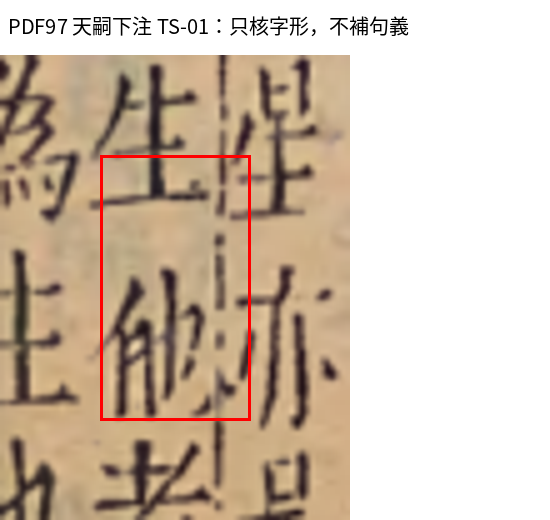
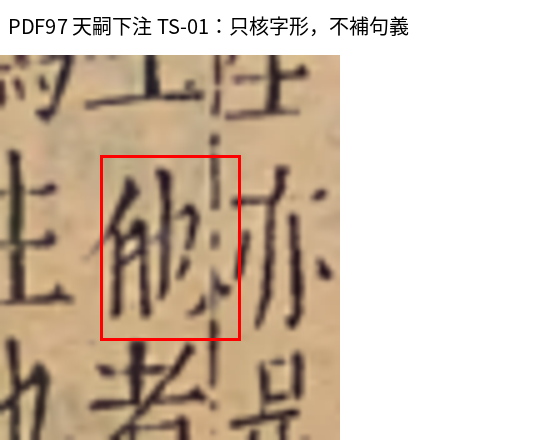
收窄天嗣下注待核字框並保存可重建腳本

diff --git a/tools/prepare_gangmu97_note_review.py b/tools/prepare_gangmu97_note_review.py
@@ -1,0 +1,13 @@
+"""執行：重建97頁天嗣下注兩個待核字位的紅框與證據；不改卡。"""
+from review_helpers import *
+def main():
+ base=PIC/'綱目97天嗣下注';base.mkdir(exist_ok=True);rows=[]
+ for ident,box,a,b in [('TS-01',(27,865,55,902),'彼','他'),('TS-02',(0,704,24,746),'復','彼')]:
+  dest=base/(ident+'.png');framed_image('/workspace/review/ocr/綱目-97-原圖0.png',box,dest,'PDF97 天嗣下注 '+ident+'：只核字形，不補句義',scale=5,margin=20)
+  rows.append({'編號':ident,'原圖':str(dest.relative_to(ROOT)),'原圖框位':list(box),'候選':[a,b],'狀態':'待看原圖／無法判斷','問題':f'請看紅框內的字，是「{a}」還是「{b}」？'})
+ save('綱目97天嗣下注待核.json',{'日期':'2026-11-19','PDF實際頁碼':97,'來源類型':'人工校讀','限制':'尚未形成可靠完整引文，不建立卡片；他書語句不代替本圖字形。','明細':rows})
+ lines=['# 綱目97頁天嗣下注待核','','總數2個字位疑點，均未定字，未建卡；OCR只作候選，不直接填文。']
+ for r in rows:lines+=['','## '+r['編號'],'',f'![原圖](../{r["原圖"].removeprefix("docs/")})','',r['問題']]
+ lines+=['','不補出整句取法；此段目前仍未可靠校清，不能列為提煉完成。']
+ (D/'綱目97天嗣下注待核.md').write_text('\n'.join(lines)+'\n')
+if __name__=='__main__':main()

diff --git a/docs/狀態.md b/docs/狀態.md
@@ -4,7 +4,7 @@
 階段1.5未驗收，未進階段2；使用者暫緩裁決，繼續可獨立核清的圖頁；不套用待裁決修改，不改既有卡片。
 統計日期2026-11-19：knowledge/每個Markdown檔計一張，本機與遠端共19,780張；綱目5,216張。河洛來源61張，檔名含河洛64個，差3張是其他書的同名篇題。
 帳本30份，27份所列正文整理完成、3份進行中；這不表示圖像核對已完成。
-復工位置：101頁兩段圖注新增2卡並推送04b1e742；97頁天嗣下注新定位2個疑字，未建卡。已產三本書43個圖頁位置的待校分界。下一個第一動作：核97頁天嗣下注兩處與玉堂首列；看不清保留，再按逐頁分界續核98頁其他左旁。
+復工位置：101頁兩段圖注新增2卡並推送04b1e742；97頁天嗣下注新定位2個疑字，未建卡。已產三本書43個圖頁位置的待校分界。下一個第一動作：按檢查/階段1.5待校與待裁決分界.md續核98頁其他左旁；97頁兩字與玉堂首列維持待核，不用句義代填。
 綱目73–96頁24組五題120筆、擎遊44對、催官貴元28筆抽查已出表；不是全部字值通過。
 命海16頁27題與三處淂字部件圖、綱目98頁左旁收到T21三筆回覆：婁水、會為使用者讀值，簊金仍為候選；100頁伏尸／闌干整欄待裁決。先前32／36為舊核對紀錄，本輪不視為驗收結果。
 

diff --git a/docs/檢查/綱目97天嗣下注待核.md b/docs/檢查/綱目97天嗣下注待核.md
@@ -1,6 +1,6 @@
 # 綱目97頁天嗣下注待核
 
-總數2個字位疑點，均未定字，未建卡；OCR完整候選另存，不採機器結果直接填文。
+總數2個字位疑點，均未定字，未建卡；OCR只作候選，不直接填文。
 
 ## TS-01
 
@@ -14,4 +14,4 @@
 
 請看紅框內的字，是「復」還是「彼」？
 
-不補出整句取法。此段目前仍未可靠校清，不能列成提煉完成；這是新增待核字位，不取代原先玉堂首列疑點。
+不補出整句取法；此段目前仍未可靠校清，不能列為提煉完成。
